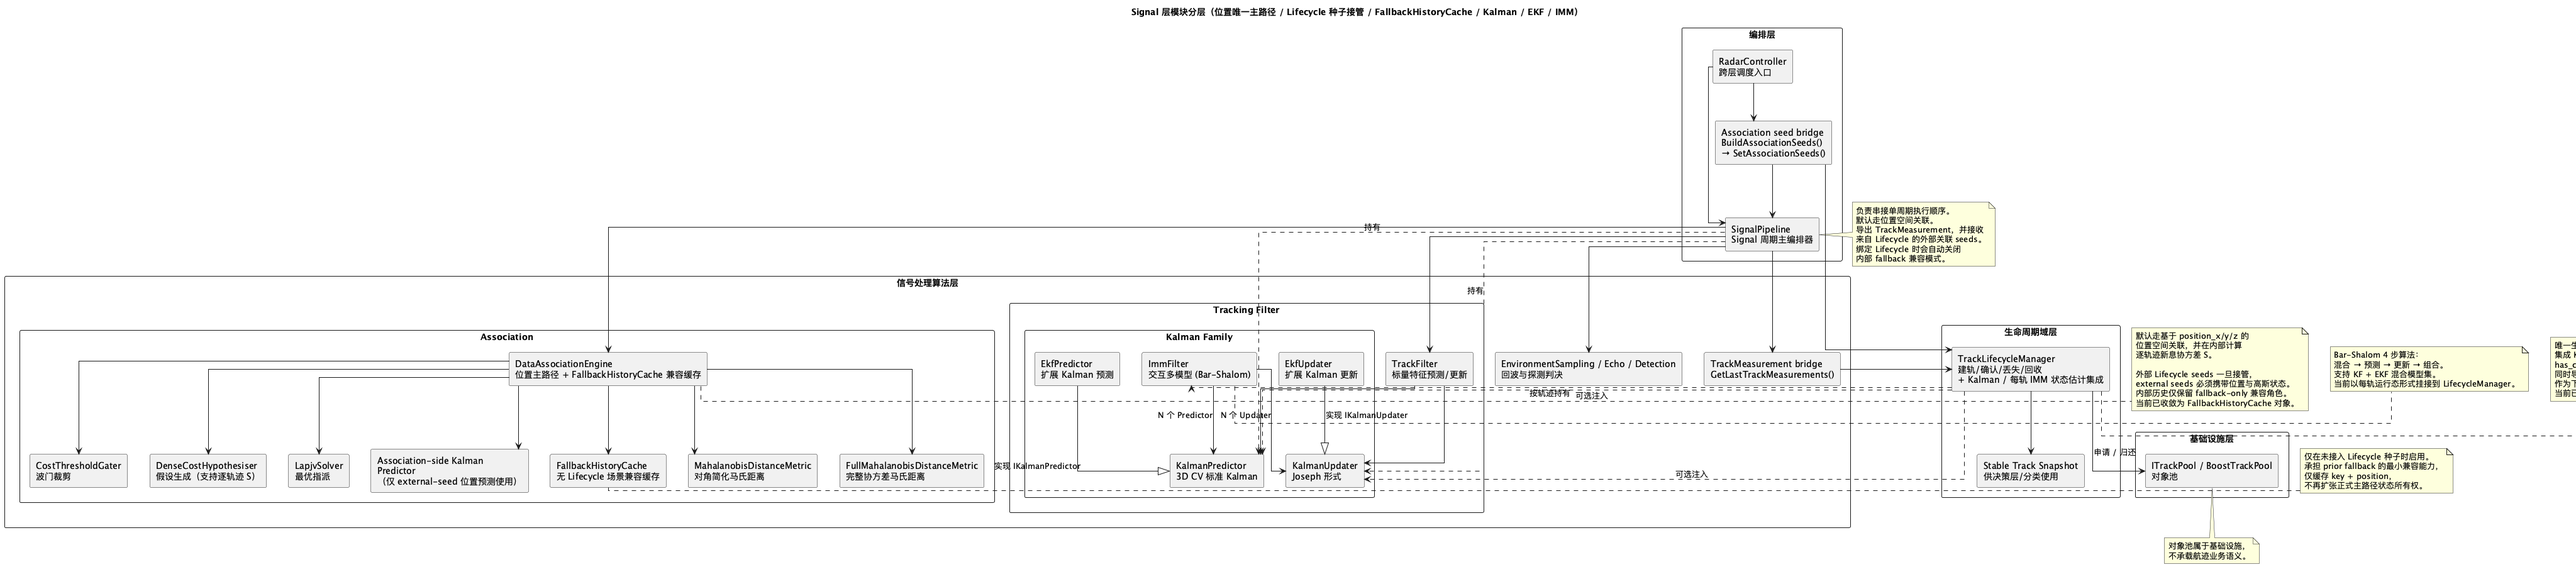
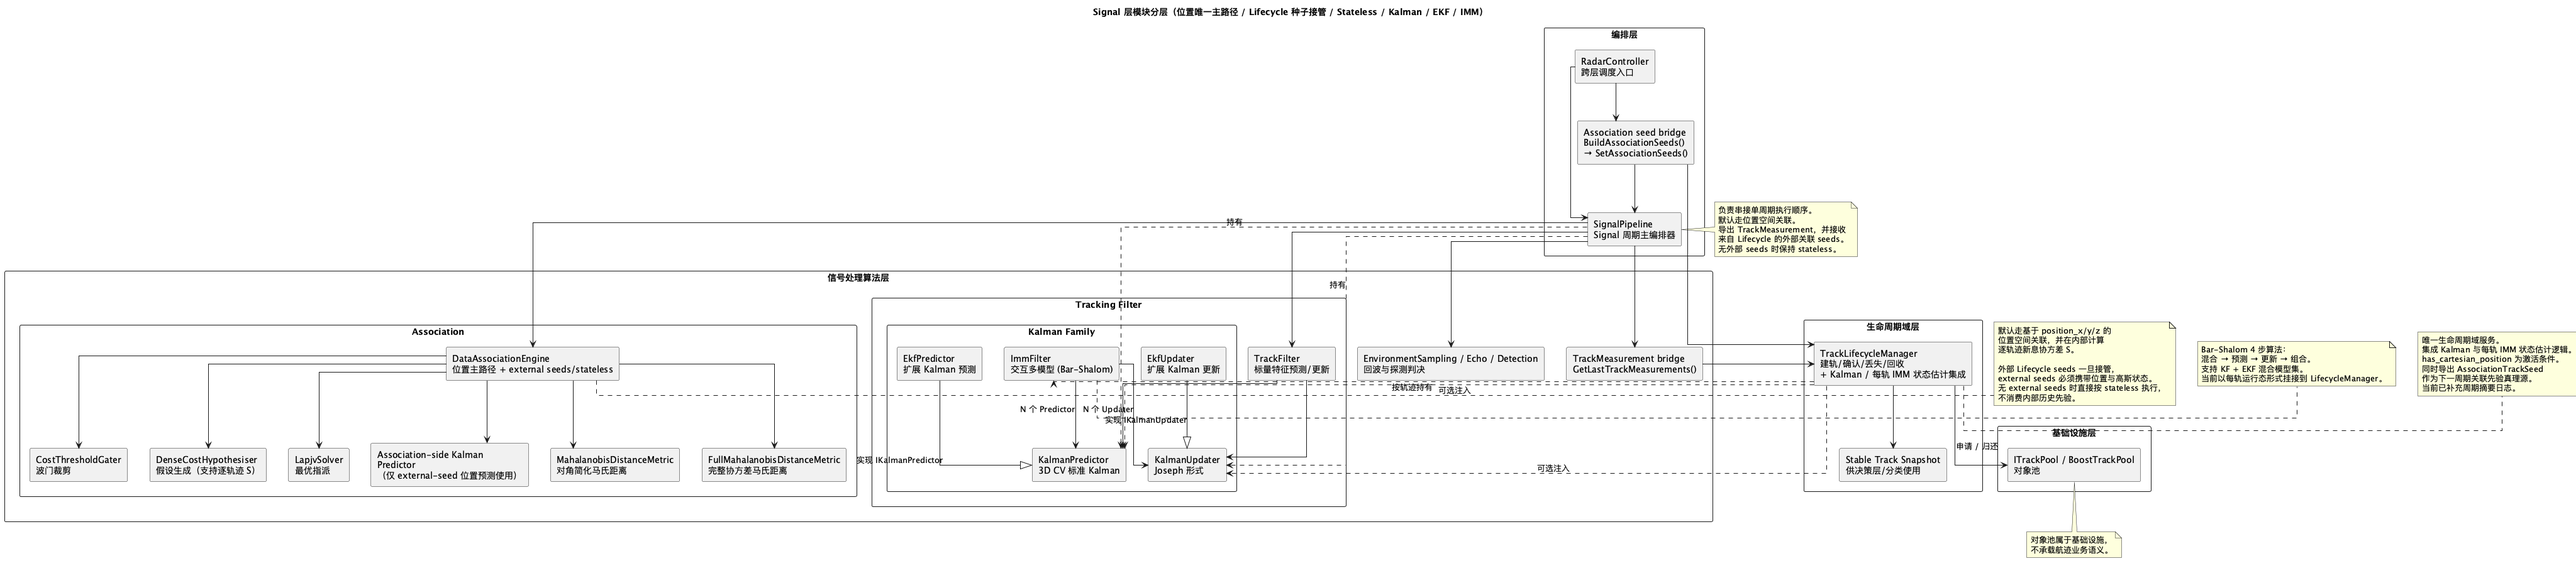
refactor(signal): 清理fallback遗留命名并移除兼容空接口

diff --git a/tests/signal_association_test.cpp b/tests/signal_association_test.cpp
@@ -76,7 +76,7 @@ TEST(DataAssociationEngineTest, KeepsStableAssociationAcrossCycles) {
 }
 
     TEST(DataAssociationEngineTest,
-      DisablingInternalHistoryFallbackMakesAssociationStatelessWithoutSeeds) {
+      StatelessWithoutSeedsMakesAssociationAcrossCyclesIndependent) {
     signal::association::DataAssociationEngine engine;
 
     const common::TargetFeatureList cycle_1{
@@ -103,7 +103,7 @@ TEST(DataAssociationEngineTest, KeepsStableAssociationAcrossCycles) {
   }
 
     TEST(DataAssociationEngineTest,
-      DisablingInternalHistoryFallbackClearsExistingHistoryCache) {
+      StatelessModeDoesNotReusePreviousCycleAssociations) {
     signal::association::DataAssociationEngine engine;
 
     const common::TargetFeatureList warmup_cycle{
@@ -114,8 +114,6 @@ TEST(DataAssociationEngineTest, KeepsStableAssociationAcrossCycles) {
     ASSERT_EQ(first_result.target_keys.size(), 1u);
     ASSERT_NE(first_result.target_keys[0], 0u);
 
-    engine.SetInternalHistoryFallbackEnabled(true);
-
     const signal::association::AssociationResult second_result =
       engine.AssociateDetections(warmup_cycle, detected);
     ASSERT_EQ(second_result.target_keys.size(), 1u);
@@ -124,10 +122,9 @@ TEST(DataAssociationEngineTest, KeepsStableAssociationAcrossCycles) {
     EXPECT_TRUE(second_result.matches.empty());
   }
 
-  TEST(DataAssociationEngineTest,
-       DisablingInternalHistoryFallbackDoesNotBlockExternalSeeds) {
+    TEST(DataAssociationEngineTest,
+      ExternalSeedsStillDriveAssociationWhenProvided) {
     signal::association::DataAssociationEngine engine;
-    engine.SetInternalHistoryFallbackEnabled(false);
 
     signal::tracking::AssociationTrackSeed seed;
     seed.association_key = 88u;
@@ -422,8 +419,8 @@ TEST(DataAssociationEngineTest,
     EXPECT_FALSE(second_result.used_external_association_seeds);
   }
 
-  TEST(DataAssociationEngineTest,
-       EmptyExternalSeedsSuppressInternalHistoryFallback) {
+    TEST(DataAssociationEngineTest,
+      EmptyExternalSeedsKeepsAssociationStateless) {
     signal::association::DataAssociationEngine engine;
 
     const common::TargetFeatureList warmup_cycle{MakePositionTarget(50.0f, 0.0f, 0.0f)};

diff --git a/tests/signal_environment_test.cpp b/tests/signal_environment_test.cpp
@@ -293,13 +293,25 @@ TEST(SignalPipelineTest,
 }
 
 TEST(SignalPipelineTest,
-     RejectsRuntimeFallbackEnableByDefaultWithoutCompatibilityFlag) {
+   ResetAssociationSeedModeToStatelessClearsSideChannelSeeds) {
   environment::EnvironmentModelConfig env_config;
   env_config.jammer_power_db = 0.0f;
   environment::EnvironmentService environment_service(env_config);
 
   signal::pipeline::SignalPipeline signal_pipeline;
-  signal_pipeline.SetInternalAssociationHistoryFallbackEnabled(true);
+
+  signal::tracking::AssociationTrackSeed side_channel_seed;
+  side_channel_seed.association_key = 777u;
+  side_channel_seed.has_position = true;
+  side_channel_seed.position = Eigen::Vector3f(10.0f, 0.0f, 0.0f);
+  side_channel_seed.has_gaussian_state = true;
+  side_channel_seed.gaussian_state.mean = signal::tracking::StateVector::Zero();
+  side_channel_seed.gaussian_state.mean(0) = 10.0f;
+  side_channel_seed.gaussian_state.covariance =
+    signal::tracking::StateCovariance::Identity() * 25.0f;
+  signal_pipeline.SetAssociationSeeds(
+    std::vector<signal::tracking::AssociationTrackSeed>(1, side_channel_seed));
+  signal_pipeline.ResetAssociationSeedModeToStateless();
 
   common::TargetFeature target(100.0f, 2.0f, false, 1.0f);
   target.position_x = 10.0f;

diff --git a/src/airborne_radar/signal/pipeline/SignalPipeline.cpp b/src/airborne_radar/signal/pipeline/SignalPipeline.cpp
@@ -421,12 +421,8 @@ struct SignalPipeline::Impl {
     association_engine.SetAssociationSeeds(seeds);
   }
 
-  void SetInternalAssociationHistoryFallbackEnabled(bool enabled) {
-    association_engine.SetInternalHistoryFallbackEnabled(enabled);
-  }
-
-  void ResetAssociationSeedModeToFallbackHistory() {
-    association_engine.ResetAssociationSeedModeToFallbackHistory();
+  void ResetAssociationSeedModeToStateless() {
+    association_engine.ResetAssociationSeedModeToStateless();
   }
 
   /// @brief 获取 Kalman 预测器指针（可为 nullptr）。
@@ -481,12 +477,8 @@ void SignalPipeline::SetAssociationSeeds(
   impl_->SetAssociationSeeds(seeds);
 }
 
-void SignalPipeline::SetInternalAssociationHistoryFallbackEnabled(bool enabled) {
-  impl_->SetInternalAssociationHistoryFallbackEnabled(enabled);
-}
-
-void SignalPipeline::ResetAssociationSeedModeToFallbackHistory() {
-  impl_->ResetAssociationSeedModeToFallbackHistory();
+void SignalPipeline::ResetAssociationSeedModeToStateless() {
+  impl_->ResetAssociationSeedModeToStateless();
 }
 
 void SignalPipeline::UpdateConfig(SignalPipelineConfig config) {

diff --git a/src/airborne_radar/core/controller/RadarController.cpp b/src/airborne_radar/core/controller/RadarController.cpp
@@ -57,7 +57,7 @@ void RadarController::RunOnce() {
 		association_seed_count = seeds.size();
 		signal_pipeline_.SetAssociationSeeds(seeds);
 	} else {
-		signal_pipeline_.ResetAssociationSeedModeToFallbackHistory();
+		signal_pipeline_.ResetAssociationSeedModeToStateless();
 	}
 	const common::TargetFeatureList updated_features =
 			signal_pipeline_.RunCycle(input_features, environment_service_);
@@ -153,11 +153,8 @@ void RadarController::SetEventBus(core::event::IEventBus *event_bus) {
 void RadarController::SetTrackLifecycleManager(
 		signal::tracking::ITrackLifecycleManager *lifecycle_manager) {
 	track_lifecycle_manager_ = lifecycle_manager;
-	if (lifecycle_manager != nullptr) {
-		signal_pipeline_.SetInternalAssociationHistoryFallbackEnabled(false);
-	}
 	spdlog::info(
-			"[RadarController] track lifecycle manager {} (fallback auto-enable on detach: false)",
+			"[RadarController] track lifecycle manager {} (association priors: external seeds only)",
 			lifecycle_manager != nullptr ? "attached" : "detached");
 }
 

diff --git a/src/airborne_radar/signal/association/DataAssociation.cpp b/src/airborne_radar/signal/association/DataAssociation.cpp
@@ -128,12 +128,6 @@ DataAssociationEngine::DataAssociationEngine(DataAssociationConfig config)
 
 }
 
-void DataAssociationEngine::SetInternalHistoryFallbackEnabled(bool enabled) {
-  spdlog::warn(
-      "[DataAssociationEngine] internal history fallback switch is ignored in external-seed-only mode (requested={})",
-      enabled ? "enabled" : "disabled");
-}
-
 void DataAssociationEngine::UpdateConfig(DataAssociationConfig config) {
   config_ = config;
   full_distance_metric_ = FullMahalanobisDistanceMetric(
@@ -363,7 +357,7 @@ void DataAssociationEngine::SetAssociationSeeds(
                 external_seed_tracks_.size());
 }
 
-void DataAssociationEngine::ResetAssociationSeedModeToFallbackHistory() {
+void DataAssociationEngine::ResetAssociationSeedModeToStateless() {
   external_seed_tracks_.clear();
   association_seed_mode_ = AssociationSeedMode::kStateless;
 }

diff --git a/src/airborne_radar/signal/association/DataAssociation.h b/src/airborne_radar/signal/association/DataAssociation.h
@@ -101,10 +101,6 @@ public:
 	/// @param config 关联配置。
   explicit DataAssociationEngine(DataAssociationConfig config = {});
 
-	/// @brief 启用或关闭内部 history fallback 兼容模式。
-	/// @param enabled 兼容接口参数，当前实现不会启用内部历史关联。
-  void SetInternalHistoryFallbackEnabled(bool enabled);
-
 	/// @brief 更新关联配置。
 	/// @param config 新配置。
   void UpdateConfig(DataAssociationConfig config);
@@ -152,7 +148,7 @@ public:
 
 	/// @brief 重置外部 seeds 注入状态并回归无先验（stateless）模式。
 	/// @details 用于收敛 external seeds 单一入口，清理旁路注入的临时外部 seeds。
-  void ResetAssociationSeedModeToFallbackHistory();
+  void ResetAssociationSeedModeToStateless();
 
 private:
 	/// @brief 关联先验状态来源模式。

diff --git a/include/1q/airborne_radar/signal/pipeline/ISignalPipeline.h b/include/1q/airborne_radar/signal/pipeline/ISignalPipeline.h
@@ -67,13 +67,9 @@ public:
 		virtual void SetAssociationSeeds(
 				const std::vector<tracking::AssociationTrackSeed> &seeds) = 0;
 
-		/// @brief 启用或关闭内部关联 history fallback 兼容模式。
-		/// @param enabled 兼容接口参数；当前 external-seed-only 架构下仅用于日志告警，不改变关联先验来源。
-		virtual void SetInternalAssociationHistoryFallbackEnabled(bool enabled) = 0;
-
-		/// @brief 清理外部 seeds 状态并恢复 fallback-history 关联模式。
+		/// @brief 清理外部 seeds 状态并恢复无先验（stateless）关联模式。
 		/// @details 用于确保 external seeds 仅由控制器+Lifecycle 链路注入。
-		virtual void ResetAssociationSeedModeToFallbackHistory() = 0;
+		virtual void ResetAssociationSeedModeToStateless() = 0;
 };
 
 } // namespace pipeline

diff --git a/src/airborne_radar/signal/pipeline/SignalPipeline.h b/src/airborne_radar/signal/pipeline/SignalPipeline.h
@@ -82,11 +82,8 @@ public:
   void SetAssociationSeeds(
       const std::vector<tracking::AssociationTrackSeed> &seeds) override;
 
-	/// @brief 启用或关闭内部关联 history fallback 兼容模式。
-  void SetInternalAssociationHistoryFallbackEnabled(bool enabled) override;
-
-  /// @brief 清理外部 seeds 状态并恢复 fallback-history 关联模式。
-  void ResetAssociationSeedModeToFallbackHistory() override;
+  /// @brief 清理外部 seeds 状态并恢复无先验（stateless）关联模式。
+  void ResetAssociationSeedModeToStateless() override;
 
   /// @brief 更新信号处理配置。
   void UpdateConfig(SignalPipelineConfig config);

diff --git a/tests/core_controller_test.cpp b/tests/core_controller_test.cpp
@@ -383,7 +383,7 @@ TEST_F(CoreControllerTest, LifecycleSeedsDrivePositionAssociationBeforeRunCycle)
 }
 
 TEST_F(CoreControllerTest,
-       EmptyLifecycleSeedsDisableInternalFallbackAcrossCycles) {
+  EmptyLifecycleSeedsKeepAssociationStatelessAcrossCycles) {
   common::TargetFeature target(12.0f, 0.5f, false, 0.1f);
   target.position_x = 55.0f;
   target.position_y = 0.0f;

diff --git a/doc/architecture/signal/signal-architecture.md b/doc/architecture/signal/signal-architecture.md
@@ -218,7 +218,7 @@ flowchart LR
 - `SignalPipeline` 只有在输入 `TargetFeature` 已携带 `position_x/y/z` 时，才会导出 `has_cartesian_position = true` 的 `TrackMeasurement`
 - 当成功探测目标位置量测不完整时，当前实现会直接触发契约失败
 - external seeds 缺失位置或高斯状态时，当前实现会直接触发契约失败
-- `RadarController` 绑定 `TrackLifecycleManager` 时，会强制维持 external seeds 主路径；解绑后也不会自动开启内部 fallback
+- `RadarController` 绑定 `TrackLifecycleManager` 时，会强制维持 external seeds 主路径；解绑后会显式回到 stateless 关联
 - `DataAssociationEngine` / `TrackLifecycleManager` / `RadarController` 已补充关键路径摘要日志，用于排查 prior 来源、匹配数量和生命周期推进结果
 - 因此当前位置空间关联已经是唯一正式路径，但内部状态所有权仍属于**已主化的关联能力 + 待进一步统一的数据流**
 
@@ -351,7 +351,7 @@ classDiagram
         +RunCycle(features, env) TargetFeatureList
         +GetLastTrackMeasurements() vector~TrackMeasurement~
         +SetAssociationSeeds(seeds) void
-        +SetInternalAssociationHistoryFallbackEnabled(enabled) void
+        +ResetAssociationSeedModeToStateless() void
         -KalmanPredictor kalman_predictor
         -KalmanUpdater kalman_updater
     }
@@ -360,14 +360,13 @@ classDiagram
         +AssociateDetections(targets, detection_succeeded) AssociationResult
         +Associate(targets, detection_succeeded) vector~uint64_t~
         +SetAssociationSeeds(seeds) void
-        +SetInternalHistoryFallbackEnabled(enabled) void
+        +ResetAssociationSeedModeToStateless() void
         -IDistanceMetric metric
         -FullMahalanobisDistanceMetric full_metric
         -IGater gater
         -IHypothesiser hypothesiser
         -IAssignmentSolver solver
         -KalmanPredictor association_predictor
-        -FallbackHistoryCache fallback_cache
     }
 
     class TrackLifecycleManager {
@@ -492,7 +491,7 @@ sequenceDiagram
 4. 将 `S` 逐轨迹注入 `DenseCostHypothesiser`
 5. 由 `FullMahalanobisDistanceMetric` 计算位置空间关联代价
 
-当前实现里，步骤 1 所使用的 `gaussian_state` 来自 `RadarController -> TrackLifecycleManager::BuildAssociationSeeds() -> SignalPipeline::SetAssociationSeeds()` 这条桥接链；只有在未接入 Lifecycle 管理器时，才退回 `FallbackHistoryCache` 的 position-only 先验（该路径不持久化高斯状态）。
+当前实现里，步骤 1 所使用的 `gaussian_state` 来自 `RadarController -> TrackLifecycleManager::BuildAssociationSeeds() -> SignalPipeline::SetAssociationSeeds()` 这条桥接链；当未接入 Lifecycle 管理器时，控制器会显式调用 `ResetAssociationSeedModeToStateless()`，关联阶段按无先验模式运行。
 
 ## 8. 测试覆盖
 
@@ -500,7 +499,7 @@ sequenceDiagram
 |---------|--------|---------|
 | `SignalPipelineTest` | 5 | 端到端周期处理、探测裕量衰减、TrackMeasurement 导出、默认位置关联主路径 |
 | `TrackFilterTest` | 2 | 标量特征稳定传递、损耗衰减 + 干扰惩罚 |
-| `DataAssociationEngineTest` | 14 | 稳定关联、交叉匹配、新目标分配、匹配/失配报告、位置空间关联、external seeds 单周期语义、无 external seeds 的 stateless 行为、兼容开关接口忽略语义、external seed 缺高斯态 fail-fast |
+| `DataAssociationEngineTest` | 14 | 稳定关联、交叉匹配、新目标分配、匹配/失配报告、位置空间关联、external seeds 单周期语义、无 external seeds 的 stateless 行为、external seed 缺高斯态 fail-fast |
 | `CostThresholdGaterTest` | 1 | 超阈值裁剪 |
 | `DenseCostHypothesiserTest` | 2 | 波门内假设、逐轨迹 S 注入 |
 | `TrackLifecycleManagerTest` | 4 | 确认阈值、超时回收、每轨 IMM 漏检预测、AssociationSeeds 导出位置与高斯状态 |
@@ -548,15 +547,14 @@ sequenceDiagram
     - `DataAssociationEngine` 支持位置空间关联模式
     - `DenseCostHypothesiser` 支持逐轨迹新息协方差注入
     - `FullMahalanobisDistanceMetric` 可直接消费轨迹级 $S$
-- Lifecycle external seeds 接桥 + 关联侧 internal fallback 消费路径下线
+- Lifecycle external seeds 接桥 + 关联侧内部历史先验消费路径下线
 - `DataAssociationEngine` / `TrackLifecycleManager` / `RadarController` 关键路径摘要日志
 - external seeds 单一入口收敛：`RadarController` 在未挂载 Lifecycle 管理器时会主动清理旁路 external-seed 注入状态；关联层保持无先验（stateless）
-- `SetInternalAssociationHistoryFallbackEnabled(...)` 仅保留兼容接口语义，不再改变关联先验来源
+- 兼容 fallback 命名接口已移除，统一收敛为 `ResetAssociationSeedModeToStateless()`
 - 关联质量观测指标闭环：`DataAssociationEngine` 输出 `AssociationQualityMetrics`，`SignalPipeline` 暴露查询接口，`RadarController` 周期日志输出命中率/新生率/漏失率与代价统计
 
 ### 待完善 🔲
 
-- 清理 `FallbackHistoryCache` 相关遗留类型/术语（文档与代码注释层面）
 - `SignalPipeline` / `RadarController` 层面对 IMM 生命周期服务的自动装配
 - 杂波图与动态门限环境适配机制
 

diff --git a/doc/architecture/signal/README.md b/doc/architecture/signal/README.md
@@ -8,7 +8,7 @@ Signal 层是机载雷达仿真系统的信号处理核心，负责 **探测 →
 - `FullMahalanobisDistanceMetric` 支持逐轨迹新息协方差 $S$ 联动
 - `TrackLifecycleManager` 已支持每轨 IMM 运行态
 - `RadarController` 会在每周期开始前把 Lifecycle 导出的关联种子注入 `SignalPipeline`
-- `DataAssociationEngine` 已将内部 fallback history 收敛为 `FallbackHistoryCache`（仅 `key + position`）
+- `DataAssociationEngine` 仅消费 external seeds 作为关联先验；无 seeds 时按 stateless 模式运行
 - external seeds 进入关联前已收紧为强契约：必须同时携带位置与高斯状态
 - 关联契约失败路径已接入 `spdlog::critical`，并保持 fail-fast（`abort`）
 - `DataAssociationEngine` / `TrackLifecycleManager` / `RadarController` 已补充关键路径摘要日志
@@ -41,7 +41,7 @@ Signal 层是机载雷达仿真系统的信号处理核心，负责 **探测 →
 
 ```
 Level 0: TrackFilter（标量特征的最小预测/更新）
-Level 1: DataAssociationEngine（位置唯一主路径 + FallbackHistoryCache 兼容缓存，仅 position-only fallback）
+Level 1: DataAssociationEngine（位置唯一主路径 + external seeds/stateless 双态语义）
 Level 2: KalmanPredictor + KalmanUpdater（标准线性 Kalman，3D CV）
 Level 3: EkfPredictor + EkfUpdater（扩展 Kalman，非线性模型支持）
 Level 4: ImmFilter（交互多模型，Bar-Shalom 4 步算法）
